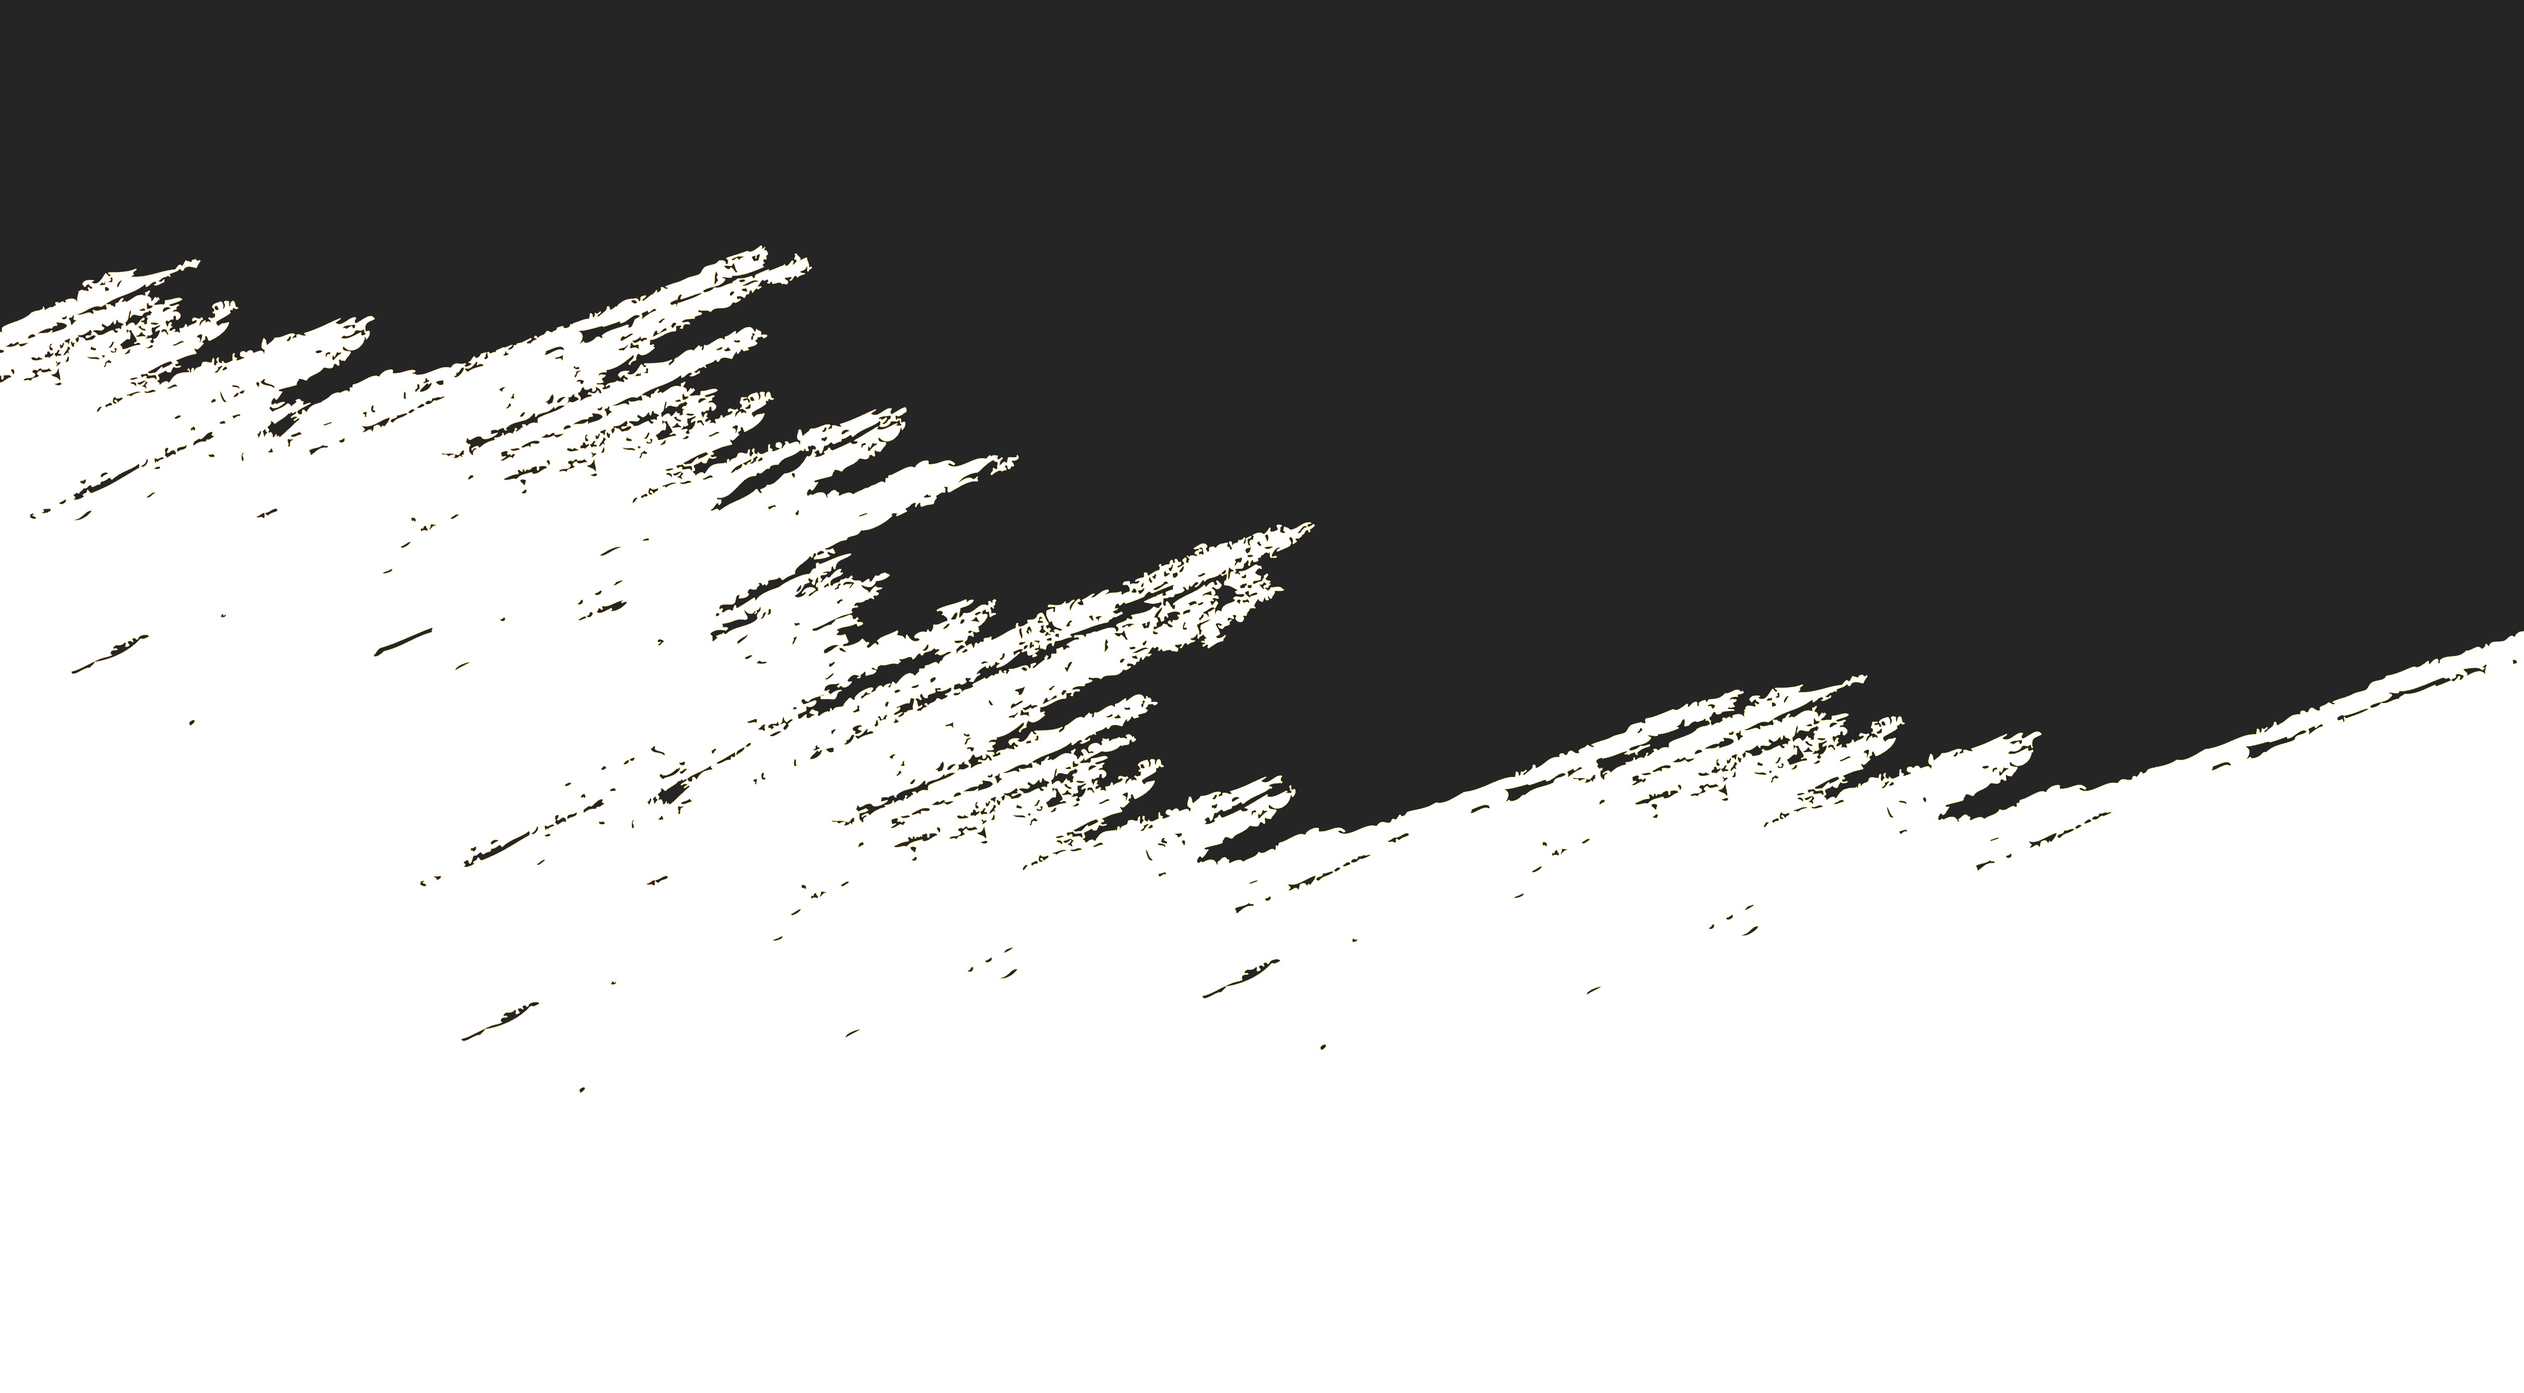
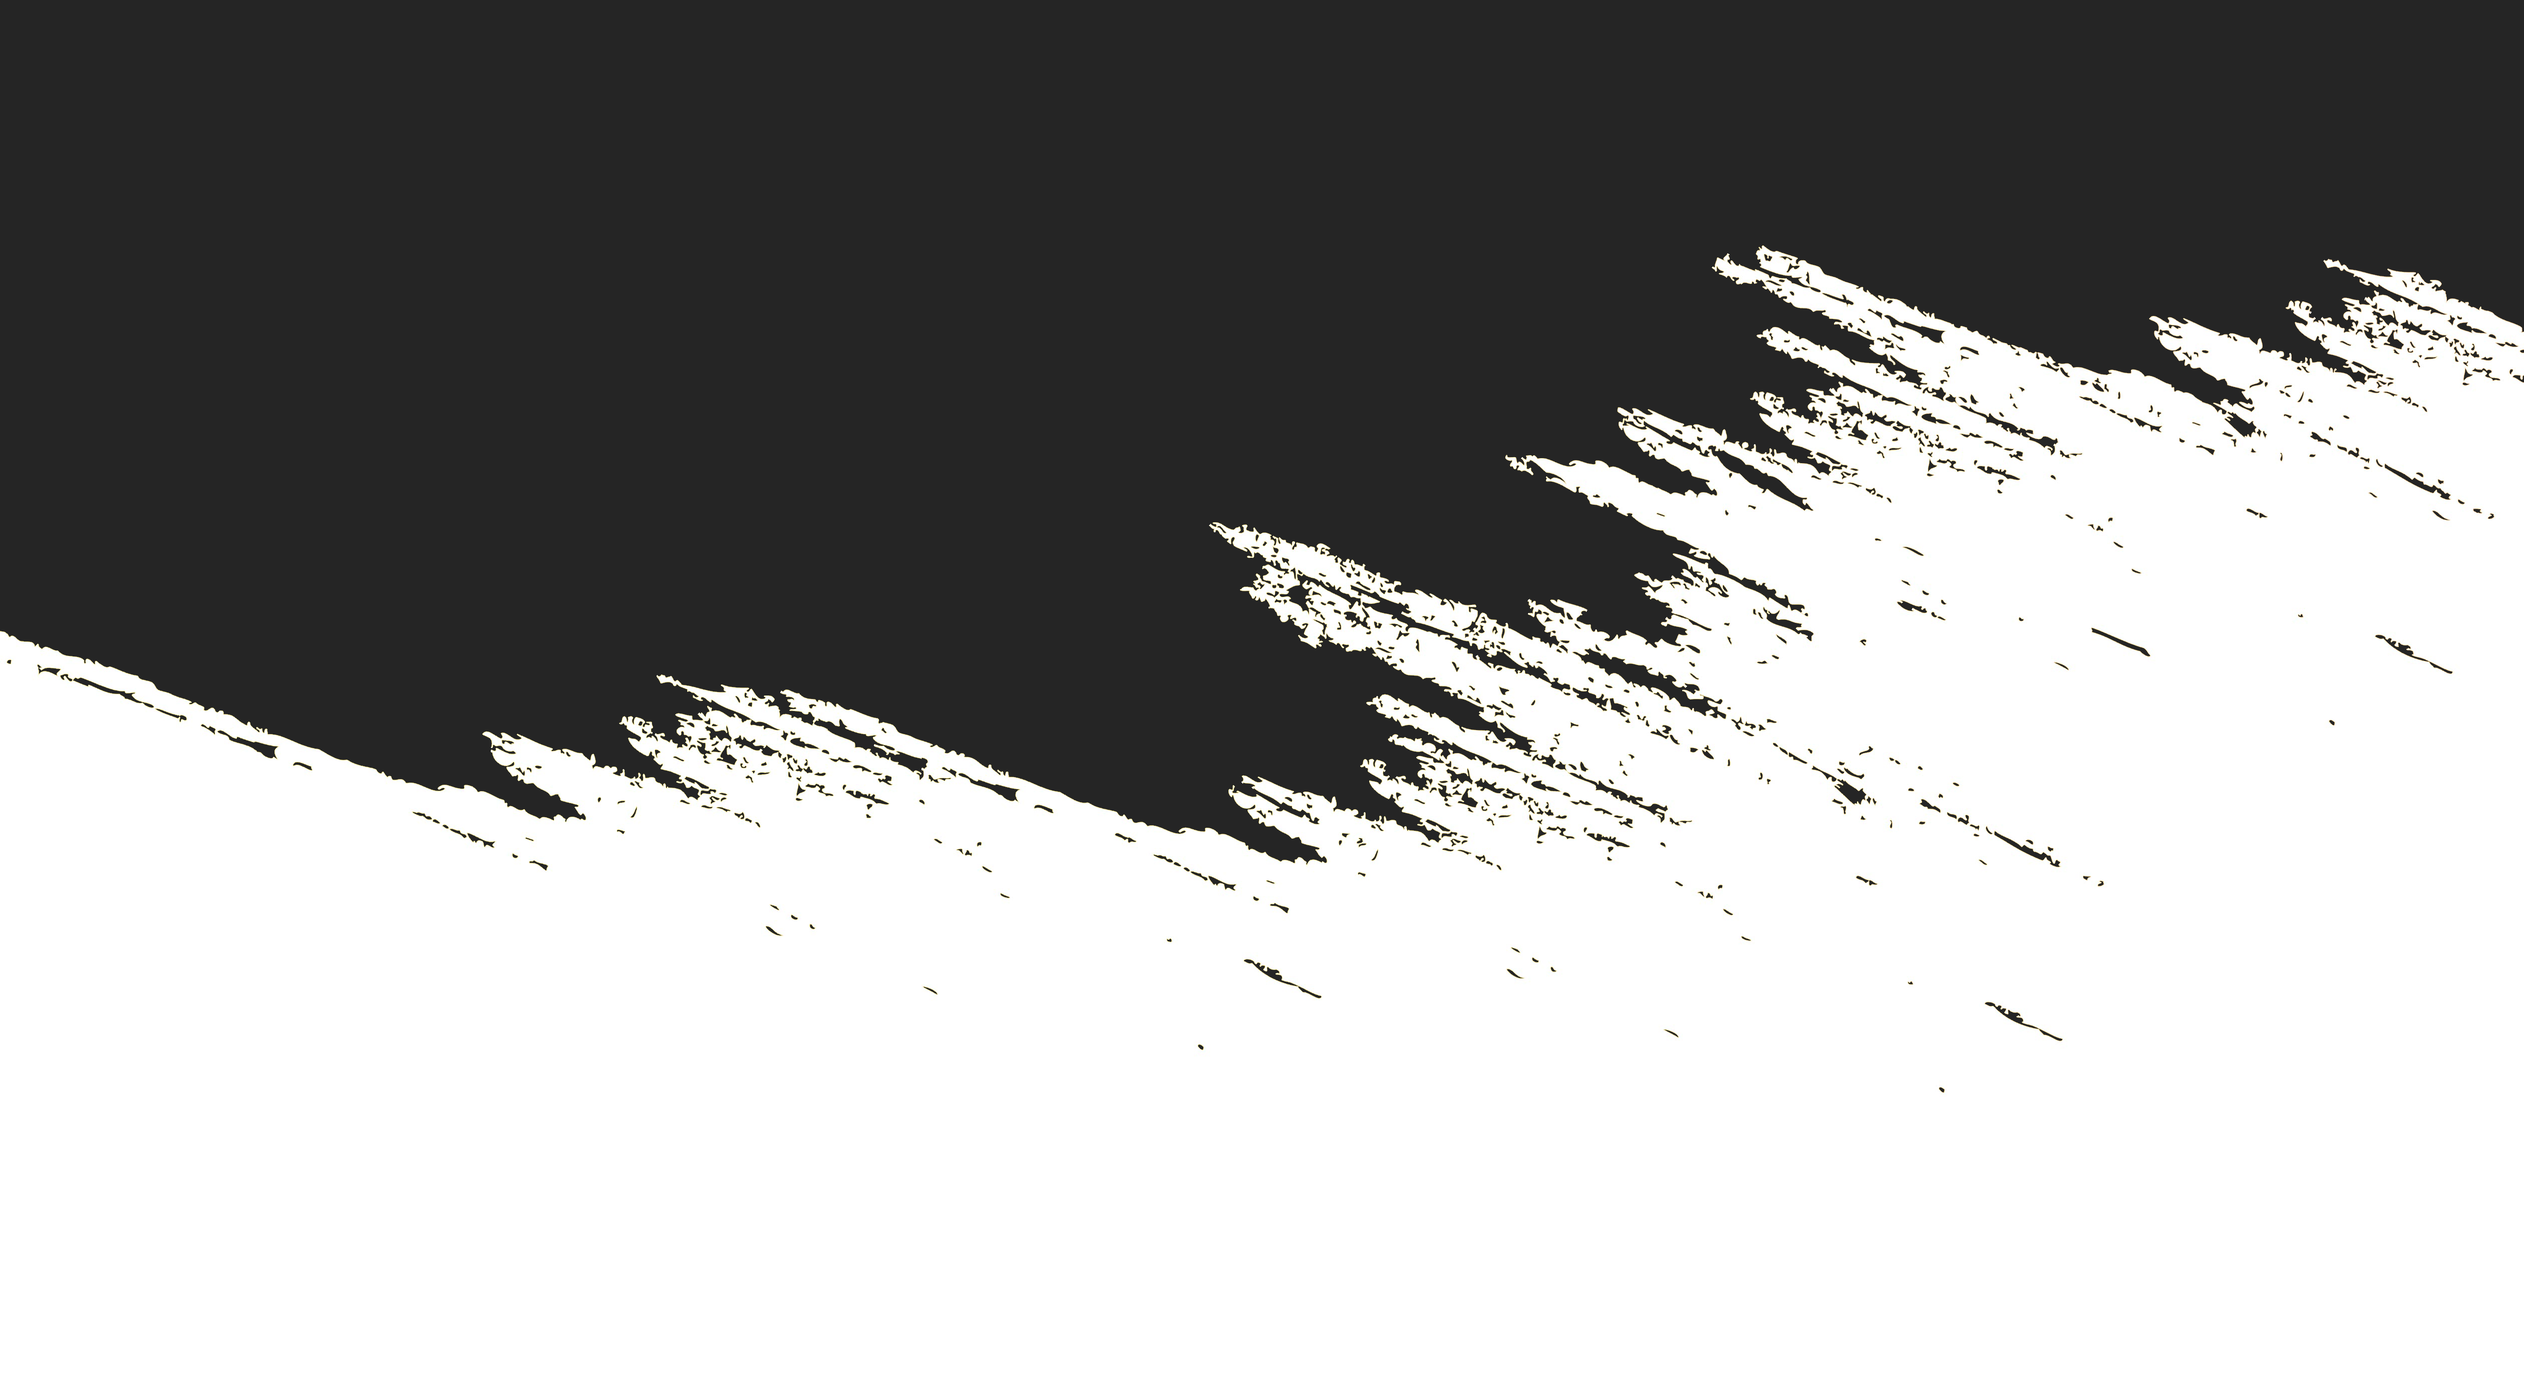
Cambiando cositas

diff --git a/portfolio/components/Design.js b/portfolio/components/Design.js
@@ -4,31 +4,34 @@ const Design = () => {
     return (
         <section className="design vh-100">
             <div className="row m-2">
-                <h1 className="display-3 text-secondary text-center"><strong> Design<span className="text-primary">_</span> </strong></h1>
-                <p className="text-secondary text-center fw-bold"> I want to show you my own projects. </p>
+                <h1 className="display-3 text-secondary text-center fw-bold"><strong> Diseño<span className="text-primary">_</span> </strong></h1>
+                <p className="text-secondary text-center fw-bold"> Me gusta planificar los proyectos, desde el diseño de plantillas en Photoshop hasta el desarrollo de un servidor. </p>
             </div>
             <div className="row m-2">
-                <div className="col-sm-7 p-5">
+                <div className="col-sm-7 p-3">
                     <div className="m-2">
-                        <img src="/assets/img/roman-screenshot.png" className="img-fluid img-thumbnail shadow" alt="Screenshot"></img>
+                        <figure class="figure">
+                            <img src="/assets/img/roman-screenshot.png" className="img-fluid img-thumbnail shadow" alt="Screenshot"></img>
+                            <figcaption class="figure-caption text-center"> <a className="nav-link" href="https://github.com/Noctturne" target="_blank"> Template desarrollado en Wordpress </a> </figcaption>
+                        </figure>
                     </div>
                 </div>
                 <div className="col-sm-5 align-self-center">
                     <div className="card shadow m-2">
                         <div className="card-body">
-                            <h5 className="card-title"><span className="text-primary"> - </span> Web design:</h5>
+                            <h5 className="card-title"><span className="text-primary"> - </span> Diseño web:</h5>
                             <p className="card-text ps-4"> Photoshop || Clip Studio </p>
                             <div className="progress">
-                                <div className="progress-bar bg-primary" role="progressbar" style={{width: '75%'}} aria-valuenow="75" aria-valuemin="0" aria-valuemax="100"></div>
+                                <div className="progress-bar bg-primary progress-bar-striped" role="progressbar" style={{width: '75%'}} aria-valuenow="75" aria-valuemin="0" aria-valuemax="100"></div>
                             </div>
                         </div>
                     </div>
                     <div className="card shadow m-2">
                         <div className="card-body">
-                            <h5 className="card-title"><span className="text-primary"> - </span> Basics:</h5>
+                            <h5 className="card-title"><span className="text-primary"> - </span> Básicos:</h5>
                             <p className="card-text ps-4"> HTML || CSS || Javascript </p>
                             <div className="progress">
-                                <div className="progress-bar bg-primary" role="progressbar" style={{width: '90%'}} aria-valuenow="75" aria-valuemin="0" aria-valuemax="100"></div>
+                                <div className="progress-bar bg-primary progress-bar-striped" role="progressbar" style={{width: '90%'}} aria-valuenow="75" aria-valuemin="0" aria-valuemax="100"></div>
                             </div>
                         </div>
                     </div>
@@ -37,7 +40,7 @@ const Design = () => {
                             <h5 className="card-title"><span className="text-primary"> - </span> Frameworks:</h5>
                             <p className="card-text ps-4"> Bootstrap || Material UI || UIKIT || ... </p>
                             <div className="progress">
-                                <div className="progress-bar bg-primary" role="progressbar" style={{width: '75%'}} aria-valuenow="75" aria-valuemin="0" aria-valuemax="100"></div>
+                                <div className="progress-bar bg-primary progress-bar-striped" role="progressbar" style={{width: '75%'}} aria-valuenow="75" aria-valuemin="0" aria-valuemax="100"></div>
                             </div>
                         </div>
                     </div>
@@ -46,20 +49,11 @@ const Design = () => {
                             <h5 className="card-title"><span className="text-primary"> - </span> CMS:</h5>
                             <p className="card-text ps-4"> Wordpress || Strapi  </p>
                             <div className="progress">
-                                <div className="progress-bar bg-primary" role="progressbar" style={{width: '65%'}} aria-valuenow="75" aria-valuemin="0" aria-valuemax="100"></div>
+                                <div className="progress-bar bg-primary progress-bar-striped" role="progressbar" style={{width: '65%'}} aria-valuenow="75" aria-valuemin="0" aria-valuemax="100"></div>
                             </div>
                         </div>
                     </div>
-                    <div className="card shadow m-2">
-                        <div className="card-body">
-                            <h5 className="card-title"><span className="text-primary"> - </span> Currently learning:</h5>
-                            <p className="card-text ps-4"> UX </p>
-                        </div>
-                    </div>
                 </div>
-            </div>
-            <div className="col-md-12 text-center p-2">
-                <button type="button" className="btn btn-primary text-center text-light"> Show more </button>
             </div>
         </section>
     )

diff --git a/portfolio/components/Develop.js b/portfolio/components/Develop.js
@@ -4,9 +4,44 @@ const Develop = () => {
     return (
         <section className="design vh-100 bg-primary">
             <div className="row">
-                <h1 className="display-3 text-light text-center"><strong> Develop<span className="text-light">_</span> </strong></h1>
-                <p className="text-light text-center fw-bold"> I want to show you my own projects. </p>
+                <h1 className="display-3 text-light text-center fw-bold"><strong> Desarrollo <span className="text-light">_</span> </strong></h1>
+                <p className="text-light text-center fw-bold"> Aquí van unos cuantos proyectos! </p>
             </div>
+            <div className="row m-2">
+                <div className="offset-sm-3 col-sm-3">
+                    <div class="card p-4">
+                        <div class="card-body">
+                            <h4 class="card-title"> Desarrollo Front-end </h4>
+                            <h6 class="card-subtitle mb-2 text-muted"> React / Next </h6>
+                            <h6 class="card-subtitle mb-2 text-muted"> Vue </h6>
+                            <h6 class="card-subtitle mb-2 text-muted"> Angular </h6>
+                            <p class="card-text">Panel gestor de proyectos con JWT.</p>
+                            <a href="https://github.com/Noctturne/React-TaskForce" target="_blank" class="nav-link"> Ver en Github </a>
+                        </div>
+                    </div>
+                </div>
+                <div className="col-sm-3">
+                    <div class="card bg-secondary p-4">
+                        <div class="card-body">
+                            <h5 class="card-title text-light"> Desarrollo Back-end </h5>
+                            <h6 class="card-subtitle mb-2 text-muted"> Node </h6>
+                            <h6 class="card-subtitle mb-2 text-muted"> MySQL / MongoDB</h6>
+                            <h6 class="card-subtitle mb-2 text-muted"> Firebase </h6>
+                            <p class="card-text text-light">Proyecto desarrollado con Node para compartir archivos.</p>
+                            <a href="https://github.com/Noctturne/React-Next-MERN-SendUp-Server" target="_blank" class="nav-link"> Ver en Github </a>
+                        </div>
+                    </div>
+                </div>
+                <div className="col-12 text-center m-2">
+                    <div class="card-body">
+                        <h4 class="card-title"> Actualmente aprendiendo... </h4>
+                        <h6 class="card-subtitle mb-2 text-light"> Java - JPA - Spring Boot </h6>
+                        <p class="card-text text-secondary"> Aplicación para añadir, editar, eliminar y listar usuarios.</p>
+                        <button type="button" class="btn btn-outline-secondary m-2" href="https://github.com/Noctturne/Angular-Spring-Started-Client" target="_blank"> Cliente </button>
+                        <button type="button" class="btn btn-outline-secondary m-2" href="https://github.com/Noctturne/Angular-Spring-Started-Server" target="_blank" > Servidor </button>
+                    </div>
+                </div>
+            </div>            
         </section>
     )
 }

diff --git a/portfolio/pages/index.js b/portfolio/pages/index.js
@@ -1,10 +1,18 @@
-import DesignHero from '../components/DesignHero';
+import * as React from "react";
 import Design from '../components/Design';
-import DevelopHero from '../components/DevelopHero';
 import Develop from '../components/Develop';
+import Footer from '../components/Footer';
 
 
 export default function Home() {
+    React.useEffect(() => {
+        scrollTop();
+      }, []);
+
+    const scrollTop = () => {
+        window.scroll(0, window.pageYOffset - 5000);
+    }
+
   return (
     <>
       <section className="header vh-100 bg-secondary">
@@ -13,31 +21,31 @@ export default function Home() {
 
               <ul className="nav justify-content-center">
                   <li className="nav-item">
-                      <a className="nav-link active" aria-current="page" href="#design"> Design </a>
+                      <a className="nav-link active" aria-current="page" href="#design"> Diseño </a>
                   </li>
                   <li className="nav-item">
-                      <a className="nav-link" href="#develop"> Develop </a>
-                  </li>
-                  <li className="nav-item">
-                      <a className="nav-link" href="#discover"> Discover </a>
+                      <a className="nav-link" href="#develop"> Desarrollo </a>
                   </li>
               </ul>
           </div> 
       </section>
 
-      <DesignHero></DesignHero>
+      <section className="design vh-100 h-75 bg-design"></section>
 
       <div data-bs-spy="scroll" data-bs-target="#navbar" data-bs-offset="0" className="scrollspy" tabIndex="0">
-        <section id="design" className="design">
-            <Design></Design>
-        </section>
+          <section id="design" className="design">
+              <Design></Design>
+          </section>
 
-        <DevelopHero></DevelopHero>
+          <section className="design vh-100 h-75 bg-develop"></section>
 
-        <section id="develop" className="develop">
-            <Develop></Develop>
-        </section>
+          <section id="develop" className="develop">
+              <Develop></Develop>
+          </section>
       </div>
+      <Footer></Footer>
+      <button class="btn btn-primary btn-floating position-fixed rounded-circle scrollTop" title="Go to top"><i className="fas fa-plus text-light"
+        onClick={scrollTop}></i></button>
     </>
   )
 }

diff --git a/portfolio/components/Footer.js b/portfolio/components/Footer.js
@@ -1,0 +1,22 @@
+import React from 'react';
+
+const Footer = () => {
+    return (
+        <section className="footer vh-100 bg-footer text-center">
+          <div className="d-flex flex-column justify-content-center align-items-center h-100">
+              <ul className="nav justify-content-center">
+                  <li className="nav-item">
+                      <a className="nav-link link-light" href="#develop" target="_blank"> <i class="fab fa-linkedin-in fa-2x"></i> </a>
+                  </li>
+                  <li className="nav-item">
+                      <a className="nav-link link-light" href="https://github.com/Noctturne" target="_blank"> <i class="fab fa-github-alt fa-2x"></i> </a>
+                  </li>
+              </ul>
+              <small className="text-light"> @Noctturne. Landing page desarrollada en Next JS </small>
+              <small className="text-light"> Background images:  <a className="link-light" href="https://www.freepik.es/" target="_blank"> Freepik </a></small>
+          </div>
+        </section>
+    )
+}
+
+export default Footer;

diff --git a/portfolio/styles/globals.css b/portfolio/styles/globals.css
@@ -15,6 +15,8 @@ a {
   box-sizing: border-box;
 }
 
+.btn-floating{ padding: 15px 20px; bottom: 60px; right: 40px; z-index: 9999;}
+
 img {
   filter: grayscale(100%);
   transition: all 0.3s;
@@ -29,6 +31,12 @@ img {
 
 .bg-develop{
   background-image: url('../public/assets/img/bg-custom-02.png');
+  background-size: cover;
+  background-repeat: no-repeat;
+}
+
+.bg-footer{
+  background-image: url('../public/assets/img/bg-custom-03.png');
   background-size: cover;
   background-repeat: no-repeat;
 }

diff --git a/portfolio/pages/_app.js b/portfolio/pages/_app.js
@@ -12,6 +12,7 @@ function MyApp({ Component, pageProps }) {
     <>
       <Head>
         <meta name="viewport" content="width=device-width, initial-scale=1" />
+        <script src="https://kit.fontawesome.com/ce02519927.js" crossorigin="anonymous"></script>
       </Head>
       <Component {...pageProps} key={router.route}/>
     </>
